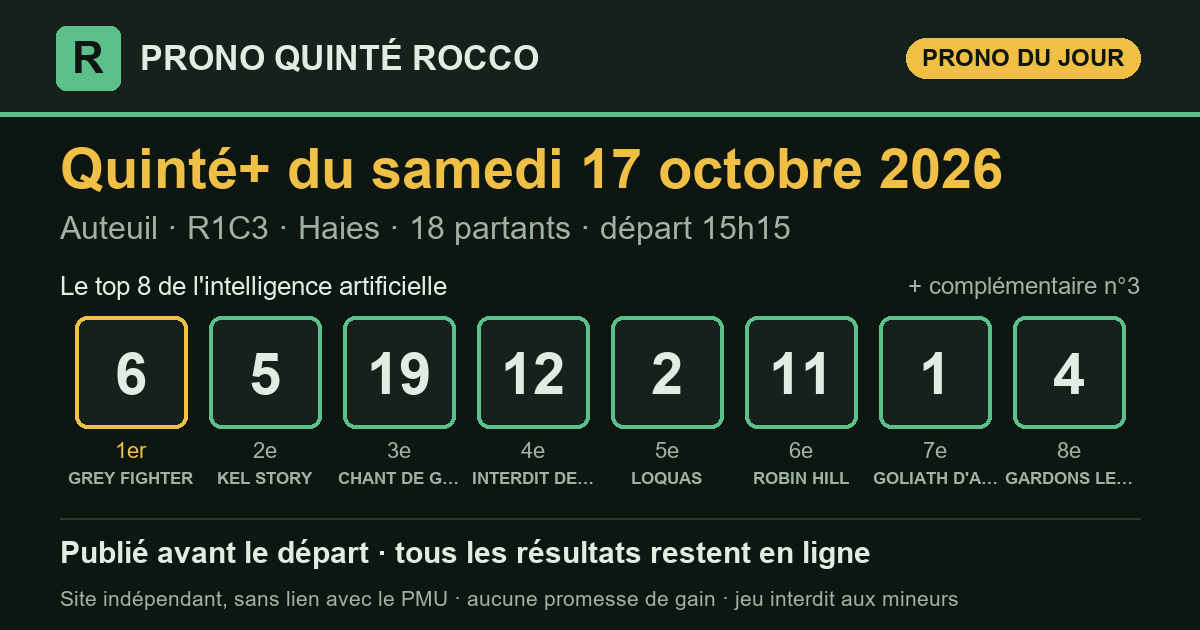
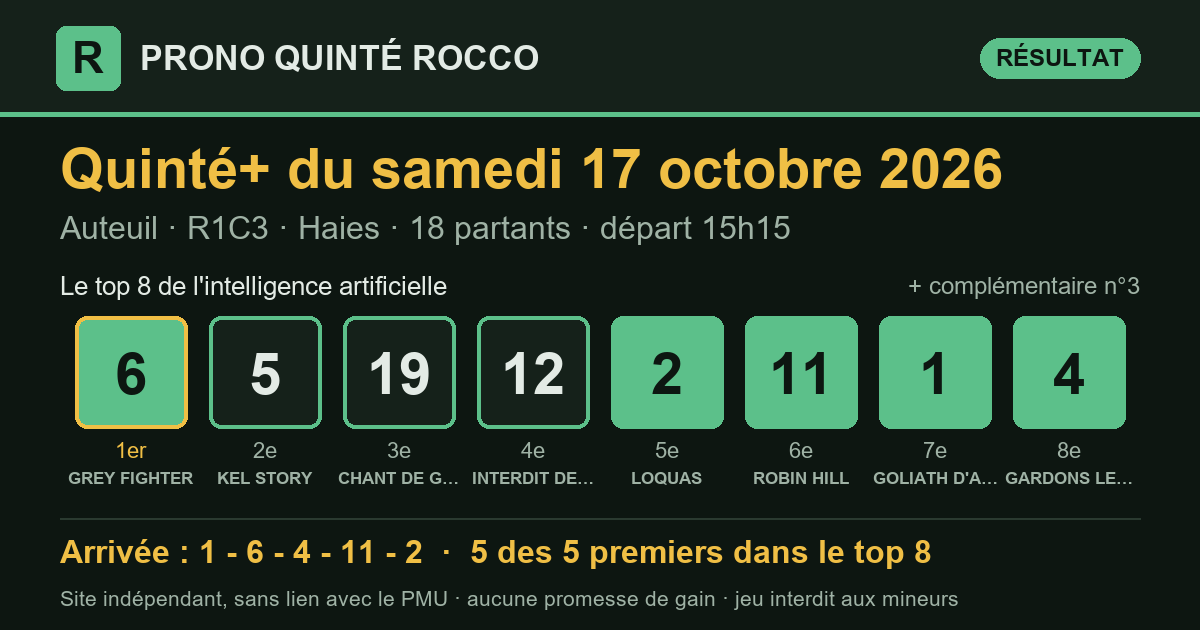
Prono Quinté+ 2026-10-17 Auteuil R1C3 — publié le 17/10/2026 15:33 (heure de Paris)

diff --git a/partants.html b/partants.html
@@ -3,7 +3,7 @@
 <head>
 <meta charset="utf-8">
 <meta name="viewport" content="width=device-width, initial-scale=1, viewport-fit=cover">
-<title>Partants du Quinté+ du samedi 17 octobre 2026 — Prono Quinté Rocco</title>
+<title>Partants du Quinté+ du dimanche 18 octobre 2026 — Prono Quinté Rocco</title>
 <meta name="description" content="Les partants du prochain Quinté+ (programme officiel du PMU), avec le rang du prono IA et les liens vers les pronostics de la presse.">
 <link rel="canonical" href="https://prono-quinte-rocco.fr/partants.html">
 <link rel="stylesheet" href="style.css?v=3c55eb2c">
@@ -13,7 +13,7 @@
 <meta property="og:site_name" content="Prono Quinté Rocco">
 <meta property="og:locale" content="fr_FR">
 <meta property="og:type" content="website">
-<meta property="og:title" content="Partants du Quinté+ du samedi 17 octobre 2026 — Prono Quinté Rocco">
+<meta property="og:title" content="Partants du Quinté+ du dimanche 18 octobre 2026 — Prono Quinté Rocco">
 <meta property="og:description" content="Les partants du prochain Quinté+ (programme officiel du PMU), avec le rang du prono IA et les liens vers les pronostics de la presse.">
 <meta property="og:url" content="https://prono-quinte-rocco.fr/partants.html">
 <meta name="twitter:card" content="summary">
@@ -29,120 +29,100 @@
   <p class="surtitre">Programme officiel du PMU</p>
   <h1>Les partants du prochain Quinté+</h1>
   <div class="fiche-course">
-    <p class="fiche-date">Samedi 17 octobre 2026</p>
-    <div class="fiche-rc"><span class="pastille" title="Réunion 1">R1</span><span class="pastille" title="Course 3">C3</span><span class="fiche-nom">Prix Prince d&#x27;Ecouen - Grand Handicap d&#x27;Automne</span></div>
-    <p class="meta">Auteuil · Obstacle · 4 300 m · 18 partants</p>
+    <p class="fiche-date">Dimanche 18 octobre 2026</p>
+    <div class="fiche-rc"><span class="pastille" title="Réunion 1">R1</span><span class="pastille" title="Course 3">C3</span><span class="fiche-nom">Prix Rieussec</span></div>
+    <p class="meta">ParisLongchamp · Plat · 3 100 m · 16 partants</p>
     <p class="fiche-depart">Départ <b>15:15</b> <span>heure de Paris</span></p>
   </div>
   <p class="surtitre">Les pronostics ailleurs sur le web</p>
-  <div class="liens"><a class="lien-ext" href="https://www.turfoo.fr/programmes-courses/261017/reunion1-auteuil/course3-prix-prince-d-ecouen-grand-handicap-d-automne/pronostics-presse/" rel="noopener" target="_blank"><b>Les pronostics de la presse →</b><span>sur Turfoo (site extérieur)</span></a><a class="lien-ext" href="https://www.geny.com/programme/2026-10-17" rel="noopener" target="_blank"><b>Partants et pronostics →</b><span>programme du jour sur Geny (site extérieur)</span></a></div>
+  <div class="liens"><a class="lien-ext" href="https://www.turfoo.fr/programmes-courses/261018/reunion1-longchamp/course3-prix-rieussec/pronostics-presse/" rel="noopener" target="_blank"><b>Les pronostics de la presse →</b><span>sur Turfoo (site extérieur)</span></a><a class="lien-ext" href="https://www.geny.com/programme/2026-10-18" rel="noopener" target="_blank"><b>Partants et pronostics →</b><span>programme du jour sur Geny (site extérieur)</span></a></div>
   <div class="liste-boite"><table class="liste-partants">
     <thead><tr><th>N°</th><th>Cheval</th><th class="cote"><span class="long">Cote du matin</span><span class="court">Cote</span></th>
     <th class="ia"><span class="long">Prono IA</span><span class="court">IA</span></th></tr></thead>
     <tbody><tr>
   <td><span class="tapis petit">1</span></td>
-  <td><span class="cheval">GOLIATH D&#x27;AUNOU</span><span class="sous">F.GILES · N. GEORGE &amp; A. ZETTERHOLM</span></td>
-  <td class="cote num">14,0</td>
-  <td class="ia"><span class="etat place">7<sup>e</sup></span></td>
+  <td><span class="cheval">YES ZARA</span><span class="sous">M.VELON · C.FEY (S)</span></td>
+  <td class="cote num">—</td>
+  <td class="ia">—</td>
 </tr><tr>
   <td><span class="tapis petit">2</span></td>
-  <td><span class="cheval">LOQUAS</span><span class="sous">K.NABET · Y.FOUIN (S)</span></td>
-  <td class="cote num">8,5</td>
-  <td class="ia"><span class="etat place">5<sup>e</sup></span></td>
+  <td><span class="cheval">DON&#x27;T SHUT ME DOWN</span><span class="sous">M.GUYON · P&amp;J.BRANDT (S)</span></td>
+  <td class="cote num">—</td>
+  <td class="ia">—</td>
 </tr><tr>
   <td><span class="tapis petit">3</span></td>
-  <td><span class="cheval">KIRIKOU DES MERS</span><span class="sous">B.LE CLERC · MME G.MENATO</span></td>
-  <td class="cote num">18,0</td>
-  <td class="ia"><span class="etat place">compl.</span></td>
+  <td><span class="cheval">BLACK SAXON</span><span class="sous">A.MADAMET · N.BELLANGER (S)</span></td>
+  <td class="cote num">—</td>
+  <td class="ia">—</td>
 </tr><tr>
   <td><span class="tapis petit">4</span></td>
-  <td><span class="cheval">GARDONS LE SOURIRE</span><span class="sous">T.CHEVILLARD · GAB.LEENDERS (S)</span></td>
-  <td class="cote num">20,0</td>
-  <td class="ia"><span class="etat place">8<sup>e</sup></span></td>
+  <td><span class="cheval">PRINCESSE D&#x27;AMOUR</span><span class="sous">C.SOUMILLON · JPH .DUBOIS</span></td>
+  <td class="cote num">—</td>
+  <td class="ia">—</td>
 </tr><tr>
   <td><span class="tapis petit">5</span></td>
-  <td><span class="cheval">KEL STORY</span><span class="sous">L.PHILIPPERON · M.SEROR (S)</span></td>
-  <td class="cote num">13,0</td>
-  <td class="ia"><span class="etat place">2<sup>e</sup></span></td>
+  <td><span class="cheval">A BEAUREGARD</span><span class="sous">D.PROVOST · M.CESANDRI (S)</span></td>
+  <td class="cote num">—</td>
+  <td class="ia">—</td>
 </tr><tr>
   <td><span class="tapis petit">6</span></td>
-  <td><span class="cheval">GREY FIGHTER</span><span class="sous">J.REVELEY · N. GEORGE &amp; A. ZETTERHOLM</span></td>
-  <td class="cote num">4,5</td>
-  <td class="ia"><span class="etat place">1<sup>er</sup></span></td>
+  <td><span class="cheval">FERDINAND PREMIER</span><span class="sous">C.LECOEUVRE · J.TASTAYRE (S)</span></td>
+  <td class="cote num">—</td>
+  <td class="ia">—</td>
 </tr><tr>
   <td><span class="tapis petit">7</span></td>
-  <td><span class="cheval">ROCK AND ROLL</span><span class="sous">J.PHELIPPE · M.SEROR (S)</span></td>
-  <td class="cote num">14,0</td>
+  <td><span class="cheval">STEP MORNING</span><span class="sous">T.BACHELOT · MME L.HEBRARD DE VEYRINAS</span></td>
+  <td class="cote num">—</td>
   <td class="ia">—</td>
 </tr><tr>
   <td><span class="tapis petit">8</span></td>
-  <td><span class="cheval">ALERIC</span><span class="sous">A.GAUTRON · F.FOUCHER</span></td>
-  <td class="cote num">44,0</td>
+  <td><span class="cheval">MIGHTY BOY</span><span class="sous">S.PASQUIER · ED.MONFORT (S)</span></td>
+  <td class="cote num">—</td>
   <td class="ia">—</td>
 </tr><tr>
   <td><span class="tapis petit">9</span></td>
-  <td><span class="cheval">NEVER RISK</span><span class="sous">G.MEUNIER · H.MERIENNE (S)</span></td>
-  <td class="cote num">28,0</td>
+  <td><span class="cheval">RAM SEA</span><span class="sous">L.BRECHET · D.MELE (S)</span></td>
+  <td class="cote num">—</td>
   <td class="ia">—</td>
-</tr><tr class="np">
+</tr><tr>
   <td><span class="tapis petit">10</span></td>
-  <td><span class="cheval">LEMNOS</span><span class="sous">A.ZULIANI · E.ANDIGNE D&#x27;</span></td>
-  <td class="cote num">NP</td>
+  <td><span class="cheval">DEMPY</span><span class="sous">C.DEMURO · D.BONILLA (S)</span></td>
+  <td class="cote num">—</td>
   <td class="ia">—</td>
 </tr><tr>
   <td><span class="tapis petit">11</span></td>
-  <td><span class="cheval">ROBIN HILL</span><span class="sous">T.BEAURAIN · L.CARBERRY (S)</span></td>
-  <td class="cote num">8,7</td>
-  <td class="ia"><span class="etat place">6<sup>e</sup></span></td>
+  <td><span class="cheval">IKKO</span><span class="sous">R.THOMAS · G.MOSSE (S)</span></td>
+  <td class="cote num">—</td>
+  <td class="ia">—</td>
 </tr><tr>
   <td><span class="tapis petit">12</span></td>
-  <td><span class="cheval">INTERDIT DE JEU</span><span class="sous">M.CHAILLOLEAU · P&amp;C.PELTIER (S)</span></td>
-  <td class="cote num">9,1</td>
-  <td class="ia"><span class="etat place">4<sup>e</sup></span></td>
+  <td><span class="cheval">VENDOMYA</span><span class="sous">A.LEMAITRE · F.BRESSON (S)</span></td>
+  <td class="cote num">—</td>
+  <td class="ia">—</td>
 </tr><tr>
   <td><span class="tapis petit">13</span></td>
-  <td><span class="cheval">KARAFON</span><span class="sous">N.FERREIRA · H.MERIENNE (S)</span></td>
-  <td class="cote num">25,0</td>
+  <td><span class="cheval">RECOLETTY</span><span class="sous">E.HARDOUIN · S.CERULIS</span></td>
+  <td class="cote num">—</td>
   <td class="ia">—</td>
-</tr><tr class="np">
+</tr><tr>
   <td><span class="tapis petit">14</span></td>
-  <td><span class="cheval">LORELEY DES PLACES</span><span class="sous">L.ZULIANI · F.NICOLLE</span></td>
-  <td class="cote num">NP</td>
+  <td><span class="cheval">ZARFLIGHT</span><span class="sous">A.CRASTUS · GAB.LEENDERS (S)</span></td>
+  <td class="cote num">—</td>
   <td class="ia">—</td>
 </tr><tr>
   <td><span class="tapis petit">15</span></td>
-  <td><span class="cheval">MOHICAN</span><span class="sous">B.GELHAY · M.PITART</span></td>
-  <td class="cote num">39,0</td>
+  <td><span class="cheval">FANTASTICO</span><span class="sous">C.PACAUT · M.BERTO</span></td>
+  <td class="cote num">—</td>
   <td class="ia">—</td>
 </tr><tr>
   <td><span class="tapis petit">16</span></td>
-  <td><span class="cheval">L&#x27;AZIZA DES PLACES</span><span class="sous">G.FAIVRE-PICON · J.VANA JR</span></td>
-  <td class="cote num">80,0</td>
-  <td class="ia">—</td>
-</tr><tr>
-  <td><span class="tapis petit">17</span></td>
-  <td><span class="cheval">THE MUST</span><span class="sous">T.VENTADOUR · MME G.MENATO</span></td>
-  <td class="cote num">89,0</td>
-  <td class="ia">—</td>
-</tr><tr>
-  <td><span class="tapis petit">18</span></td>
-  <td><span class="cheval">LILETTE</span><span class="sous">JF.RAMBUR · M.PITART</span></td>
-  <td class="cote num">123,0</td>
-  <td class="ia">—</td>
-</tr><tr>
-  <td><span class="tapis petit">19</span></td>
-  <td><span class="cheval">CHANT DE GARDE</span><span class="sous">L.BRECHET · F.FOUCHER</span></td>
-  <td class="cote num">8,5</td>
-  <td class="ia"><span class="etat place">3<sup>e</sup></span></td>
-</tr><tr>
-  <td><span class="tapis petit">20</span></td>
-  <td><span class="cheval">PARFUM D&#x27;UNE REINE</span><span class="sous">M.HERVE · H.MERIENNE (S)</span></td>
-  <td class="cote num">65,0</td>
+  <td><span class="cheval">MEASTER OWEN</span><span class="sous">L.PLOMMEE · M.CESANDRI (S)</span></td>
+  <td class="cote num">—</td>
   <td class="ia">—</td>
 </tr></tbody>
   </table></div>
-  <p class="meta">Le rang du prono IA est celui publié sur ce site. Sous chaque cheval : jockey · entraîneur. Partants et cotes : programme
-  officiel du PMU, lu le 17/10 à 10:17 (heure de Paris). NP = non-partant.</p>
+  <p class="meta">Le prono IA de cette course sera publié le matin de la course, avant le départ. Sous chaque cheval : jockey · entraîneur. Partants et cotes : programme
+  officiel du PMU, lu le 17/10 à 15:33 (heure de Paris). NP = non-partant.</p>
 </section>
 </main>
 <footer class="pied">

diff --git a/index.html b/index.html
@@ -16,7 +16,7 @@
 <meta property="og:title" content="Pronostic Quinté+ du samedi 17 octobre 2026 — Prono Quinté Rocco">
 <meta property="og:description" content="Le pronostic du Quinté+ par intelligence artificielle, publié avant le départ, avec tous les résultats et le rendement réel.">
 <meta property="og:url" content="https://prono-quinte-rocco.fr/">
-<meta property="og:image" content="https://prono-quinte-rocco.fr/partage/2026-10-17.png?v=807d6d59">
+<meta property="og:image" content="https://prono-quinte-rocco.fr/partage/2026-10-17.png?v=3473ee48">
 <meta property="og:image:type" content="image/png">
 <meta property="og:image:width" content="1200">
 <meta property="og:image:height" content="630">
@@ -31,15 +31,15 @@
 </header>
 <main>
 <section class="une" aria-labelledby="t-jour">
-  <p class="surtitre">Quinté+ du jour</p>
+  <p class="surtitre">Dernier Quinté+</p>
   <h1 id="t-jour">Le prono du Quinté+, résultats compris</h1>
   <p class="chapo">Chaque matin, une intelligence artificielle classe les partants du
   Quinté+. Le classement est publié avant le départ, puis comparé à l'arrivée
   officielle. Tous les résultats restent en ligne, les bons comme les mauvais.</p>
   <article class="carte-course">
-  <div class="tete"><h2>Samedi 17 octobre 2026</h2><span class="etat attente">arrivée en attente</span></div>
+  <div class="tete"><h2>Samedi 17 octobre 2026</h2><span class="etat place">5 des 5 premiers dans le top 8</span></div>
   <p class="meta">Auteuil · <strong>R1C3</strong> · Haies · 18 partants · lisibilité <span class="note" aria-label="note 2 sur 5"><i class="on"></i><i class="on"></i><i class=""></i><i class=""></i><i class=""></i></span> 2/5</p>
-  <ol class="partants" aria-label="Classement du prono"><li><span class="rang">1<sup>er</sup></span><span class="tapis ">6</span><span class="nom">GREY FIGHTER</span></li><li><span class="rang">2<sup>e</sup></span><span class="tapis ">5</span><span class="nom">KEL STORY</span></li><li><span class="rang">3<sup>e</sup></span><span class="tapis ">19</span><span class="nom">CHANT DE GARDE</span></li><li><span class="rang">4<sup>e</sup></span><span class="tapis ">12</span><span class="nom">INTERDIT DE JEU</span></li><li><span class="rang">5<sup>e</sup></span><span class="tapis ">2</span><span class="nom">LOQUAS</span></li><li><span class="rang">6<sup>e</sup></span><span class="tapis ">11</span><span class="nom">ROBIN HILL</span></li><li><span class="rang">7<sup>e</sup></span><span class="tapis ">1</span><span class="nom">GOLIATH D&#x27;AUNOU</span></li><li><span class="rang">8<sup>e</sup></span><span class="tapis ">4</span><span class="nom">GARDONS LE SOURIRE</span></li><li><span class="rang">compl.</span><span class="tapis creux">3</span><span class="nom">KIRIKOU DES MERS</span></li></ol>
+  <ol class="partants" aria-label="Classement du prono"><li><span class="rang">1<sup>er</sup></span><span class="tapis plein">6</span><span class="nom">GREY FIGHTER</span></li><li><span class="rang">2<sup>e</sup></span><span class="tapis ">5</span><span class="nom">KEL STORY</span></li><li><span class="rang">3<sup>e</sup></span><span class="tapis ">19</span><span class="nom">CHANT DE GARDE</span></li><li><span class="rang">4<sup>e</sup></span><span class="tapis ">12</span><span class="nom">INTERDIT DE JEU</span></li><li><span class="rang">5<sup>e</sup></span><span class="tapis plein">2</span><span class="nom">LOQUAS</span></li><li><span class="rang">6<sup>e</sup></span><span class="tapis plein">11</span><span class="nom">ROBIN HILL</span></li><li><span class="rang">7<sup>e</sup></span><span class="tapis plein">1</span><span class="nom">GOLIATH D&#x27;AUNOU</span></li><li><span class="rang">8<sup>e</sup></span><span class="tapis plein">4</span><span class="nom">GARDONS LE SOURIRE</span></li><li><span class="rang">compl.</span><span class="tapis creux">3</span><span class="nom">KIRIKOU DES MERS</span></li></ol>
   <div class="pied-carte"><span>Analysé le 17/10 à 10:14 · en ligne le 17/10 à 10:17 · départ à 15:15 (heure de Paris)</span><span><a href="quinte/2026-10-17.html">Détail de la course</a></span></div>
 </article>
   <div class="legende"><span><span class="tapis plein petit">4</span> numéro dans les 5 premiers</span>
@@ -62,7 +62,7 @@
 </section>
 <section class="bilan" aria-labelledby="t-bilan">
   <h2 id="t-bilan">Le bilan depuis le 8 septembre 2026</h2>
-  <div class="tableau chiffres"><div class="case"><span class="gros ">75 %</span><span class="lib">des arrivants trouvés dans le top 8</span><span class="ref">un top 8 tiré au hasard : 51 %</span></div><div class="case"><span class="gros ">87 %</span><span class="lib">des gagnants présents dans le top 8</span><span class="ref"></span></div><div class="case"><span class="gros ">50 %</span><span class="lib">1er du prono placé</span><span class="ref">sur 38 Quintés</span></div><div class="case"><span class="gros perte">0,91 €</span><span class="lib">rendus pour 1 € joué placé sur le 1er</span><span class="ref">rapports officiels PMU</span></div><div class="case"><span class="gros perte">0,49 €</span><span class="lib">rendus pour 1 € joué en Quinté+ combiné top 8</span><span class="ref">56 combinaisons, rapports PMU.fr, sur 38 Quintés</span></div></div>
+  <div class="tableau chiffres"><div class="case"><span class="gros ">76 %</span><span class="lib">des arrivants trouvés dans le top 8</span><span class="ref">un top 8 tiré au hasard : 51 %</span></div><div class="case"><span class="gros ">87 %</span><span class="lib">des gagnants présents dans le top 8</span><span class="ref"></span></div><div class="case"><span class="gros ">50 %</span><span class="lib">1er du prono placé</span><span class="ref">sur 38 Quintés</span></div><div class="case"><span class="gros perte">0,91 €</span><span class="lib">rendus pour 1 € joué placé sur le 1er</span><span class="ref">rapports officiels PMU</span></div><div class="case"><span class="gros perte">0,54 €</span><span class="lib">rendus pour 1 € joué en Quinté+ combiné top 8</span><span class="ref">56 combinaisons, rapports PMU.fr, sur 39 Quintés</span></div></div>
   <p class="avertissement">Moins de 1 € rendu pour 1 € joué : suivre ce prono à la lettre fait <strong>perdre de l'argent</strong> sur cette période. Il sert à analyser une course, pas à promettre un gain.</p>
 </section>
 </main>

diff --git a/quinte/2026-10-17.html b/quinte/2026-10-17.html
@@ -16,7 +16,7 @@
 <meta property="og:title" content="Pronostic Quinté+ du samedi 17 octobre 2026 à Auteuil — Prono Quinté Rocco">
 <meta property="og:description" content="Prono Quinté+ du samedi 17 octobre 2026 (Auteuil) : top 8, arrivée officielle et rapports PMU.fr.">
 <meta property="og:url" content="https://prono-quinte-rocco.fr/quinte/2026-10-17.html">
-<meta property="og:image" content="https://prono-quinte-rocco.fr/partage/2026-10-17.png?v=807d6d59">
+<meta property="og:image" content="https://prono-quinte-rocco.fr/partage/2026-10-17.png?v=3473ee48">
 <meta property="og:image:type" content="image/png">
 <meta property="og:image:width" content="1200">
 <meta property="og:image:height" content="630">
@@ -35,11 +35,19 @@
   <h1>Pronostic Quinté+ du samedi 17 octobre 2026</h1>
   <p class="chapo">Auteuil · R1C3 · Haies · 18 partants</p>
   <article class="carte-course">
-  <div class="tete"><h2>Le prono : top 8 et complémentaire</h2><span class="etat attente">arrivée en attente</span></div>
+  <div class="tete"><h2>Le prono : top 8 et complémentaire</h2><span class="etat place">5 des 5 premiers dans le top 8</span></div>
   <p class="meta">Auteuil · <strong>R1C3</strong> · Haies · 18 partants · lisibilité <span class="note" aria-label="note 2 sur 5"><i class="on"></i><i class="on"></i><i class=""></i><i class=""></i><i class=""></i></span> 2/5</p>
-  <ol class="partants" aria-label="Classement du prono"><li><span class="rang">1<sup>er</sup></span><span class="tapis ">6</span><span class="nom">GREY FIGHTER</span></li><li><span class="rang">2<sup>e</sup></span><span class="tapis ">5</span><span class="nom">KEL STORY</span></li><li><span class="rang">3<sup>e</sup></span><span class="tapis ">19</span><span class="nom">CHANT DE GARDE</span></li><li><span class="rang">4<sup>e</sup></span><span class="tapis ">12</span><span class="nom">INTERDIT DE JEU</span></li><li><span class="rang">5<sup>e</sup></span><span class="tapis ">2</span><span class="nom">LOQUAS</span></li><li><span class="rang">6<sup>e</sup></span><span class="tapis ">11</span><span class="nom">ROBIN HILL</span></li><li><span class="rang">7<sup>e</sup></span><span class="tapis ">1</span><span class="nom">GOLIATH D&#x27;AUNOU</span></li><li><span class="rang">8<sup>e</sup></span><span class="tapis ">4</span><span class="nom">GARDONS LE SOURIRE</span></li><li><span class="rang">compl.</span><span class="tapis creux">3</span><span class="nom">KIRIKOU DES MERS</span></li></ol>
+  <ol class="partants" aria-label="Classement du prono"><li><span class="rang">1<sup>er</sup></span><span class="tapis plein">6</span><span class="nom">GREY FIGHTER</span></li><li><span class="rang">2<sup>e</sup></span><span class="tapis ">5</span><span class="nom">KEL STORY</span></li><li><span class="rang">3<sup>e</sup></span><span class="tapis ">19</span><span class="nom">CHANT DE GARDE</span></li><li><span class="rang">4<sup>e</sup></span><span class="tapis ">12</span><span class="nom">INTERDIT DE JEU</span></li><li><span class="rang">5<sup>e</sup></span><span class="tapis plein">2</span><span class="nom">LOQUAS</span></li><li><span class="rang">6<sup>e</sup></span><span class="tapis plein">11</span><span class="nom">ROBIN HILL</span></li><li><span class="rang">7<sup>e</sup></span><span class="tapis plein">1</span><span class="nom">GOLIATH D&#x27;AUNOU</span></li><li><span class="rang">8<sup>e</sup></span><span class="tapis plein">4</span><span class="nom">GARDONS LE SOURIRE</span></li><li><span class="rang">compl.</span><span class="tapis creux">3</span><span class="nom">KIRIKOU DES MERS</span></li></ol>
   <div class="pied-carte"><span>Analysé le 17/10 à 10:14 · en ligne le 17/10 à 10:17 · départ à 15:15 (heure de Paris)</span><span></span></div>
 </article>
+<section class="carte-course" aria-labelledby="t-arr">
+  <div class="tete"><h2 id="t-arr">Arrivée officielle</h2></div>
+  <div class="rangee"><span class="tapis plein" title="1er">1</span><span class="tapis plein" title="2e">6</span><span class="tapis plein" title="3e">4</span><span class="tapis plein" title="4e">11</span><span class="tapis plein" title="5e">2</span></div>
+  <div class="deux">
+    <div><h3>Ce qu'aurait rendu le prono</h3><dl class="kv"><dt>1 € placé sur le 1er (n°6)</dt><dd>rapport manquant</dd><dt>1 € gagnant sur le 1er</dt><dd>rapport manquant</dd><dt>Quinté+ combiné top 8 (mise 112 €)</dt><dd>273,40 €</dd><dt>dont</dt><dd>Désordre × 1, Bonus 4sur5 × 15, Bonus 3 × 3</dd></dl></div>
+    <div><h3>Rapports officiels</h3><dl class="kv"><dt>e-Quinté+ Ordre (2 €)</dt><dd>15 940,60 €</dd><dt>e-Quinté+ Désordre (2 €)</dt><dd>147,40 €</dd><dt>e-Bonus 4sur5 (2 €)</dt><dd>7,20 €</dd><dt>e-Bonus 3 (2 €)</dt><dd>6,00 €</dd></dl></div>
+  </div>
+</section>
 </section>
 </main>
 <footer class="pied">

diff --git a/resultats.html b/resultats.html
@@ -39,8 +39,8 @@
     <tbody><tr>
   <td class="c-date"><a href="quinte/2026-10-17.html">17/10</a></td>
   <td class="c-course">Auteuil<br><span class="meta">R1C3 · Haies</span></td>
-  <td data-label="Top 8 du prono"><div class="rangee"><span class="tapis petit">6</span><span class="tapis petit">5</span><span class="tapis petit">19</span><span class="tapis petit">12</span><span class="tapis petit">2</span><span class="tapis petit">11</span><span class="tapis petit">1</span><span class="tapis petit">4</span></div></td><td data-label="Arrivée"><span class="etat attente">en attente</span></td>
-  <td class="num" data-label="Trouvés">—</td><td data-label="1er du prono"><span class="etat attente">—</span></td><td class="mont" data-label="Quinté+ top 8 (mise 112 €)">—</td>
+  <td data-label="Top 8 du prono"><div class="rangee"><span class="tapis plein petit">6</span><span class="tapis petit">5</span><span class="tapis petit">19</span><span class="tapis petit">12</span><span class="tapis plein petit">2</span><span class="tapis plein petit">11</span><span class="tapis plein petit">1</span><span class="tapis plein petit">4</span></div></td><td data-label="Arrivée"><div class="rangee"><span class="tapis plein petit" title="1er">1</span><span class="tapis plein petit" title="2e">6</span><span class="tapis plein petit" title="3e">4</span><span class="tapis plein petit" title="4e">11</span><span class="tapis plein petit" title="5e">2</span></div></td>
+  <td class="num" data-label="Trouvés">5/5</td><td data-label="1er du prono"><span class="etat place">placé</span></td><td class="mont " data-label="Quinté+ top 8 (mise 112 €)">273,40 €</td>
 </tr><tr>
   <td class="c-date"><a href="quinte/2026-10-16.html">16/10</a></td>
   <td class="c-course">Vincennes<br><span class="meta">R1C4 · Attelé</span></td>
@@ -236,7 +236,7 @@
 </section>
 <section class="bilan" aria-labelledby="t-bilan">
   <h2 id="t-bilan">Le bilan depuis le 8 septembre 2026</h2>
-  <div class="tableau chiffres"><div class="case"><span class="gros ">75 %</span><span class="lib">des arrivants trouvés dans le top 8</span><span class="ref">un top 8 tiré au hasard : 51 %</span></div><div class="case"><span class="gros ">87 %</span><span class="lib">des gagnants présents dans le top 8</span><span class="ref"></span></div><div class="case"><span class="gros ">50 %</span><span class="lib">1er du prono placé</span><span class="ref">sur 38 Quintés</span></div><div class="case"><span class="gros perte">0,91 €</span><span class="lib">rendus pour 1 € joué placé sur le 1er</span><span class="ref">rapports officiels PMU</span></div><div class="case"><span class="gros perte">0,49 €</span><span class="lib">rendus pour 1 € joué en Quinté+ combiné top 8</span><span class="ref">56 combinaisons, rapports PMU.fr, sur 38 Quintés</span></div></div>
+  <div class="tableau chiffres"><div class="case"><span class="gros ">76 %</span><span class="lib">des arrivants trouvés dans le top 8</span><span class="ref">un top 8 tiré au hasard : 51 %</span></div><div class="case"><span class="gros ">87 %</span><span class="lib">des gagnants présents dans le top 8</span><span class="ref"></span></div><div class="case"><span class="gros ">50 %</span><span class="lib">1er du prono placé</span><span class="ref">sur 38 Quintés</span></div><div class="case"><span class="gros perte">0,91 €</span><span class="lib">rendus pour 1 € joué placé sur le 1er</span><span class="ref">rapports officiels PMU</span></div><div class="case"><span class="gros perte">0,54 €</span><span class="lib">rendus pour 1 € joué en Quinté+ combiné top 8</span><span class="ref">56 combinaisons, rapports PMU.fr, sur 39 Quintés</span></div></div>
   <p class="avertissement">Moins de 1 € rendu pour 1 € joué : suivre ce prono à la lettre fait <strong>perdre de l'argent</strong> sur cette période. Il sert à analyser une course, pas à promettre un gain.</p>
 </section>
 </main>
